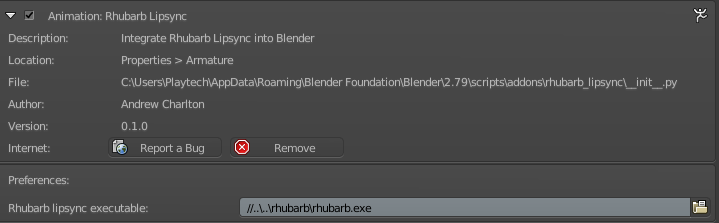
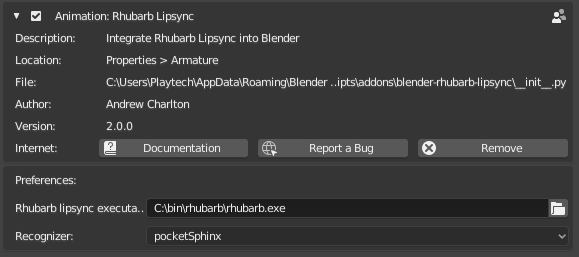
Update readme

diff --git a/README.md b/README.md
@@ -20,6 +20,8 @@ https://youtu.be/xfI94VIX6BA
 
 First, set the path to the Rhubarb Lipsync executable in user preferences (download from [https://github.com/DanielSWolf/rhubarb-lip-sync](https://github.com/DanielSWolf/rhubarb-lip-sync))
 
+You can also set the recognizer here. PocketSphinx is recommended for English language, phonetic may give better results for other languages.
+
 ![Preferences](img/prefs.PNG)
 
 Create a [pose library](https://docs.blender.org/manual/en/dev/rigging/armatures/properties/pose_library.html) with the mouth shapes described in the Rhubarb Lip Sync documentation. You can name your poses whatever you like.
